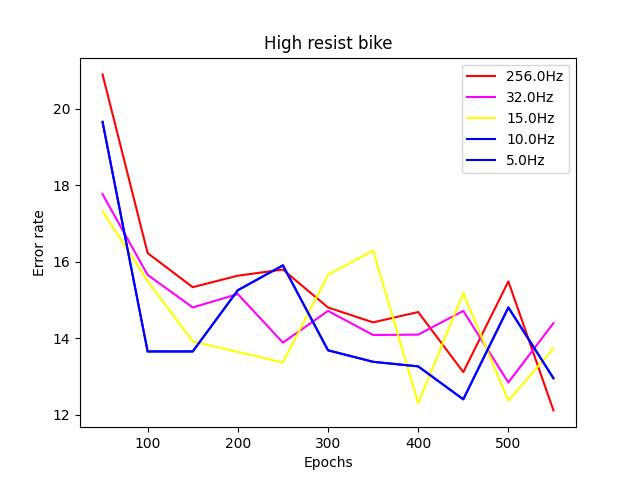
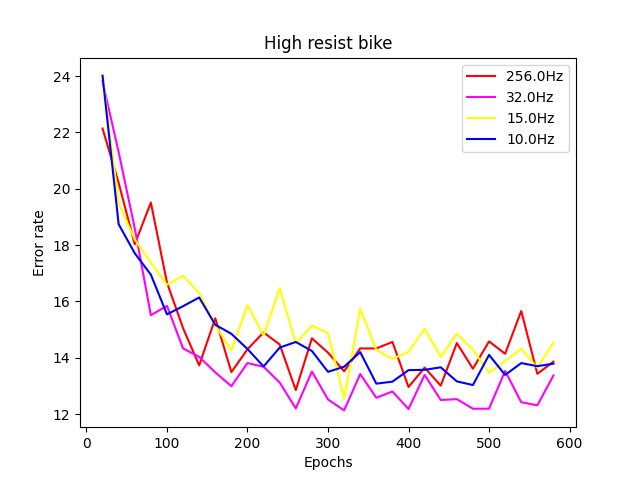
519-3

diff --git a/data/WristSense/CNNs_HAR_and_HR/Results/plot.py b/data/WristSense/CNNs_HAR_and_HR/Results/plot.py
@@ -6,14 +6,14 @@ import matplotlib.pyplot as plt
 # each has five line 256 32 15 10 5
 
 
-with open('5.0550Hz_errors.json', newline='') as jsonfile:
+with open('errors.json', newline='') as jsonfile:
     data = js.load(jsonfile)
     data_key = data['hr_errors']
     high={'256.0Hz':[], '32.0Hz':[], '15.0Hz':[], '10.0Hz':[], '5.0Hz':[]}
     low={'256.0Hz':[], '32.0Hz':[], '15.0Hz':[], '10.0Hz':[], '5.0Hz':[]}
     run={'256.0Hz':[], '32.0Hz':[], '15.0Hz':[], '10.0Hz':[], '5.0Hz':[]}
     walk={'256.0Hz':[], '32.0Hz':[], '15.0Hz':[], '10.0Hz':[], '5.0Hz':[]}
-    epochs=[i for i in range(50,600,50)]
+    epochs=[i for i in range(20,600,20)]
 
     for result in data_key:
         if result["exercise"]=="high":
@@ -67,8 +67,7 @@ with open('5.0550Hz_errors.json', newline='') as jsonfile:
     plt.plot(epochs,high["256.0Hz"][1:],color=(255/255,0/255,0/255), label='256.0Hz')
     plt.plot(epochs,high["32.0Hz"][1:],color=(255/255,0/255,255/255), label='32.0Hz')
     plt.plot(epochs,high["15.0Hz"][1:],color=(255/255,255/255,0/255), label='15.0Hz')
-    plt.plot(epochs,high["10.0Hz"][1:],color=(0/255,0/255,255/255),label='10.0Hz')
-    plt.plot(epochs,high["10.0Hz"][1:],color=(0/255,0/255,255/255),label='5.0Hz')
+    plt.plot(epochs,high["10.0Hz"][1:],color=(0/255,0/255,255/255), label='10.0Hz')
     plt.legend(loc = 'upper right')
     plt.savefig("high.png")
 
@@ -80,8 +79,7 @@ with open('5.0550Hz_errors.json', newline='') as jsonfile:
     # plt.plot(epochs,low["256.0Hz"][1:],color=(255/255,0/255,0/255), label='256.0Hz')
     # plt.plot(epochs,low["32.0Hz"][1:],color=(255/255,0/255,255/255), label='32.0Hz')
     # plt.plot(epochs,low["15.0Hz"][1:],color=(255/255,255/255,0/255), label='15.0Hz')
-    # plt.plot(epochs,low["10.0Hz"][1:],color=(0/255,0/255,255/255),label='10.0Hz')
-    # plt.plot(epochs,low["10.0Hz"][1:],color=(0/255,0/255,255/255),label='5.0Hz')
+    # plt.plot(epochs,low["10.0Hz"][1:],color=(0/255,0/255,255/255), label='10.0Hz')
     # plt.legend(loc = 'upper right')
     # plt.savefig("low.png")
 
@@ -92,8 +90,7 @@ with open('5.0550Hz_errors.json', newline='') as jsonfile:
     # plt.plot(epochs,run["256.0Hz"][1:],color=(255/255,0/255,0/255), label='256.0Hz')
     # plt.plot(epochs,run["32.0Hz"][1:],color=(255/255,0/255,255/255), label='32.0Hz')
     # plt.plot(epochs,run["15.0Hz"][1:],color=(255/255,255/255,0/255), label='15.0Hz')
-    # plt.plot(epochs,run["10.0Hz"][1:],color=(0/255,0/255,255/255),label='10.0Hz')
-    # plt.plot(epochs,run["10.0Hz"][1:],color=(0/255,0/255,255/255),label='5.0Hz')
+    # plt.plot(epochs,run["10.0Hz"][1:],color=(0/255,0/255,255/255),l abel='10.0Hz')
     # plt.legend(loc = 'upper right')
     # plt.savefig("run.png")
 
@@ -104,8 +101,7 @@ with open('5.0550Hz_errors.json', newline='') as jsonfile:
     # plt.plot(epochs,walk["256.0Hz"][1:],color=(255/255,0/255,0/255),label='256.0Hz')
     # plt.plot(epochs,walk["32.0Hz"][1:],color=(255/255,0/255,255/255),label='32.0Hz')
     # plt.plot(epochs,walk["15.0Hz"][1:],color=(255/255,255/255,0/255),label='15.0Hz')
-    # plt.plot(epochs,walk["10.0Hz"][1:],color=(0/255,0/255,255/255),label='10.0Hz')
-    # plt.plot(epochs,walk["10.0Hz"][1:],color=(0/255,0/255,255/255),label='5.0Hz')
+    # plt.plot(epochs,walk["10.0Hz"][1:],color=(0/255,0/255,255/255), label='10.0Hz')
     # plt.legend(loc = 'upper right')
     # plt.savefig("walk.png")
 

diff --git a/CNN_Recurrent.py b/CNN_Recurrent.py
@@ -369,7 +369,7 @@ def train(epochs, batch_size, seq_len, rcnn, trainloader, testloader, optimizer,
                       (epoch + 1, num_epochs, i + 1, running_loss / 10))
                 total_loss.append(running_loss/10)
                 running_loss = 0.0
-        if epoch%20==0:
+        if epoch%10==0:
             error = test_rcnn(batch_size, seq_len, rcnn, testloader, max_y)
         
             print("Error: " +str(error))
@@ -467,7 +467,7 @@ fs = 256.0
 dwns_factor = [fs//256.0, fs//30.0, fs//15.0, fs//10.0]
 
 
-epoch = 600
+epoch = 700
 # File Directory for data
 fileDir='./Data/wrist'
 
@@ -527,7 +527,7 @@ for exer in exercise:
         # })
     
         json = js.dumps(error_msg)
-        f = open('./Results/'+'errors.json','w')
+        f = open('./Results/'+'errors_2.json','w')
         f.write(json)
         f.close()
 
